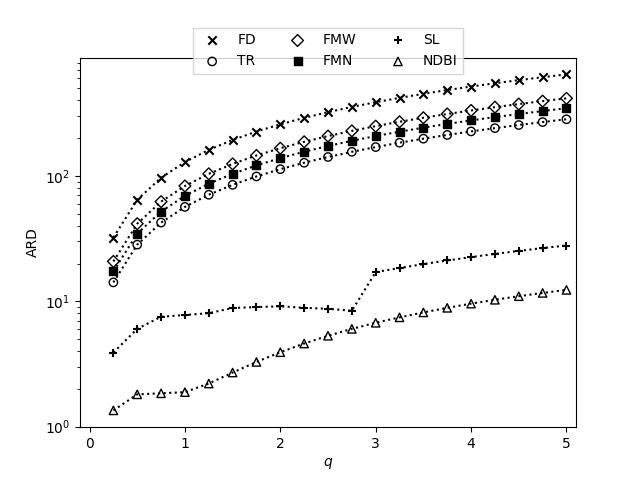
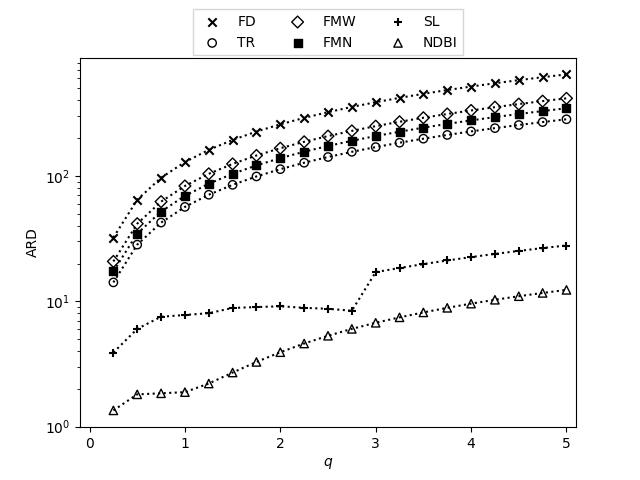
a

Changed region(s): [[0.3125, 0.0312, 0.7188, 0.1562]]

diff --git a/python/graphs/averagedeviation.py b/python/graphs/averagedeviation.py
@@ -37,7 +37,7 @@ def scanGraphics(ar, scalefactor, out='graphs'):
                  linestyle='dotted')
         i=i+1
 
-    plt.legend(loc='upper center', bbox_to_anchor=(0.5, 1.1),
+    plt.legend(loc='upper center', bbox_to_anchor=(0.5, 1.15),
                ncol=3, fancybox=False, shadow=False)
     if scalefactor < 0.9: plt.savefig(out + '/meanRelativeDeviationPerDataPointNoise.jpeg')
     else: plt.savefig(out + '/meanRelativeDeviationPerDataPointSkip.jpeg')
